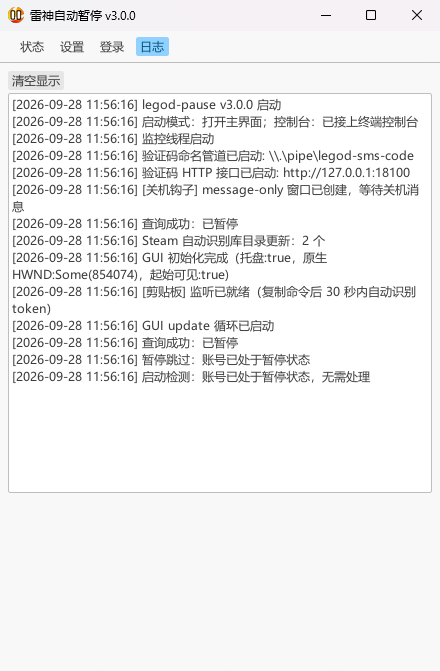
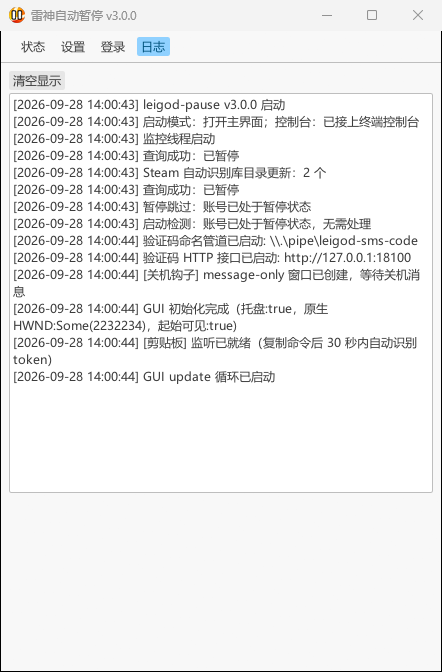
refactor: 项目统一更名为 leigod-*（对齐官方品牌拼写）
官方品牌是 leigod（雷神 = Lei + God）：官网 www.leigod.com、接口
webapi.leigod.com、安装目录 LeiGod_Acc；原先的 legod-* 是从上游 Python 项目
6yy66yy/legod-auto-pause 继承来的写法，少了一个 i。

- 包名/exe：legod-pause → leigod-pause（Cargo.toml，产物 leigod-pause.exe）
- 命名管道：\.\pipe\legod-sms-code → \.\pipe\leigod-sms-code
- 互斥体：legodpause → leigodpause
- 日志文件：legod_rs.log → leigod_rs.log
- 通知身份 AUMID：Legod.Pause → Leigod.Pause
- 自启入口：Run 键 LegodPause → LeigodPause，快捷方式 legod-pause.lnk → leigod-pause.lnk
- 剪贴板监听窗口类：LeigodPauseClipWnd
- 图标资源：assets/legod.ico → assets/leigod.ico（含 build.rs / tray.rs 引用）
- README / ARCHITECTURE / 脚本中的命令示例同步改名；上游项目名与它的
  legod.py 文件名保持原样（不能替别人改名）
- docs/screenshots/logs.png 重拍（原图里含旧包名与旧管道名）

diff --git a/src/main.rs b/src/main.rs
@@ -1,15 +1,15 @@
 //! 雷神加速器时长自动暂停 — Rust 版
 //!
 //! 用法：
-//!   legod-pause.exe               后台静默运行（托盘，不弹控制台也不弹界面）
-//!   legod-pause.exe --show        启动时打开主界面
-//!   legod-pause.exe --console     额外开一个控制台窗口看日志（调试用）
-//!   legod-pause.exe info          查询账号/暂停状态
-//!   legod-pause.exe pause         立即暂停计时
-//!   legod-pause.exe resume        恢复计时
-//!   legod-pause.exe sms           触发下发短信验证码
-//!   legod-pause.exe code <验证码> 用验证码更新 token
-//!   legod-pause.exe status        本机接口状态（等价 GET /status）
+//!   leigod-pause.exe               后台静默运行（托盘，不弹控制台也不弹界面）
+//!   leigod-pause.exe --show        启动时打开主界面
+//!   leigod-pause.exe --console     额外开一个控制台窗口看日志（调试用）
+//!   leigod-pause.exe info          查询账号/暂停状态
+//!   leigod-pause.exe pause         立即暂停计时
+//!   leigod-pause.exe resume        恢复计时
+//!   leigod-pause.exe sms           触发下发短信验证码
+//!   leigod-pause.exe code <验证码> 用验证码更新 token
+//!   leigod-pause.exe status        本机接口状态（等价 GET /status）
 //!
 //! 编译为 GUI 子系统（不产生控制台窗口）：从终端启动时自动接上父控制台，
 //! 双击/开机自启时没有控制台，输出走日志文件；要控制台窗口用 `--console`。
@@ -130,7 +130,7 @@ fn init_stdio() -> &'static str {
                 return "已接上终端控制台";
             }
             discard();
-            return "无控制台（输出丢弃，日志见 legod_rs.log）";
+            return "无控制台（输出丢弃，日志见 leigod_rs.log）";
         }
         // 管道 / 文件重定向：直接沿用父进程句柄，不能改写成 CONOUT$
         if GetFileType(handle.unwrap()) != FILE_TYPE_CHAR {
@@ -141,7 +141,7 @@ fn init_stdio() -> &'static str {
             return "已接上终端控制台";
         }
         discard();
-        "无控制台（输出丢弃，日志见 legod_rs.log）"
+        "无控制台（输出丢弃，日志见 leigod_rs.log）"
     }
 }
 
@@ -163,16 +163,16 @@ fn print_help() {
     println!(
         "雷神加速器时长自动暂停 v{v}\n\
          用法:\n\
-         \x20 legod-pause.exe               后台静默运行（托盘，不弹控制台也不弹界面）\n\
-         \x20 legod-pause.exe --show        启动时打开主界面\n\
-         \x20 legod-pause.exe --console     额外开一个控制台窗口看日志（调试用）\n\
-         \x20 legod-pause.exe info          查询账号/暂停状态\n\
-         \x20 legod-pause.exe pause         立即暂停计时\n\
-         \x20 legod-pause.exe resume        恢复计时\n\
-         \x20 legod-pause.exe sms           触发下发短信验证码\n\
-         \x20 legod-pause.exe code <n>      用验证码更新 token\n\
-         \x20 legod-pause.exe status        查询本机接口状态\n\
-         验证码自动接口: POST http://127.0.0.1:{{port}}/token/sms | /token/code  或  命名管道 \\\\.\\pipe\\legod-sms-code",
+         \x20 leigod-pause.exe               后台静默运行（托盘，不弹控制台也不弹界面）\n\
+         \x20 leigod-pause.exe --show        启动时打开主界面\n\
+         \x20 leigod-pause.exe --console     额外开一个控制台窗口看日志（调试用）\n\
+         \x20 leigod-pause.exe info          查询账号/暂停状态\n\
+         \x20 leigod-pause.exe pause         立即暂停计时\n\
+         \x20 leigod-pause.exe resume        恢复计时\n\
+         \x20 leigod-pause.exe sms           触发下发短信验证码\n\
+         \x20 leigod-pause.exe code <n>      用验证码更新 token\n\
+         \x20 leigod-pause.exe status        查询本机接口状态\n\
+         验证码自动接口: POST http://127.0.0.1:{{port}}/token/sms | /token/code  或  命名管道 \\\\.\\pipe\\leigod-sms-code",
         v = env!("CARGO_PKG_VERSION")
     );
 }
@@ -234,7 +234,7 @@ fn cli_sms(config_path: &std::path::Path) {
 
 fn cli_code(config_path: &std::path::Path, code: Option<&str>) {
     let Some(code) = code else {
-        eprintln!("用法: legod-pause.exe code <验证码>");
+        eprintln!("用法: leigod-pause.exe code <验证码>");
         std::process::exit(2);
     };
     let state = make_state(config_path);
@@ -318,7 +318,7 @@ fn run_gui(
         use windows::core::w;
         use windows::Win32::Foundation::{GetLastError, ERROR_ALREADY_EXISTS};
         use windows::Win32::System::Threading::CreateMutexW;
-        let _ = CreateMutexW(None, false, w!("legodpause"));
+        let _ = CreateMutexW(None, false, w!("leigodpause"));
         if GetLastError() == ERROR_ALREADY_EXISTS {
             if show_window && activate_existing_window() {
                 // 用户明确要界面：把已运行实例的主界面叫出来
@@ -342,7 +342,7 @@ fn run_gui(
     }
 
     let state = make_state(config_path);
-    log(&state, &format!("legod-pause v{} 启动", env!("CARGO_PKG_VERSION")));
+    log(&state, &format!("leigod-pause v{} 启动", env!("CARGO_PKG_VERSION")));
     log(
         &state,
         &format!(
@@ -407,7 +407,7 @@ fn run_gui(
     let state_gui = state.clone();
     let cfg_gui = cfg_shared.clone();
     eframe::run_native(
-        "legod-pause",
+        "leigod-pause",
         native_options,
         Box::new(move |cc| {
             Ok(Box::new(gui::App::new(
@@ -470,7 +470,7 @@ fn activate_existing_window() -> bool {
 /// 直接追加一行日志（此时还没建 AppState）
 fn append_log(config_path: &std::path::Path, msg: &str) {
     use std::io::Write;
-    let path = config_path.with_file_name("legod_rs.log");
+    let path = config_path.with_file_name("leigod_rs.log");
     if let Ok(mut f) = std::fs::OpenOptions::new().create(true).append(true).open(path) {
         let _ = writeln!(f, "[{}] {}", chrono::Local::now().format("%Y-%m-%d %H:%M:%S"), msg);
     }

diff --git a/src/config.rs b/src/config.rs
@@ -165,7 +165,7 @@ fn startup_lnk_path() -> PathBuf {
     let base = std::env::var("APPDATA").unwrap_or_default();
     PathBuf::from(base)
         .join(r"Microsoft\Windows\Start Menu\Programs\Startup")
-        .join("legod-pause.lnk")
+        .join("leigod-pause.lnk")
 }
 
 /// 自启入口使用的启动参数：后台静默，不弹控制台也不弹界面
@@ -186,7 +186,7 @@ fn read_run_key() -> Result<Option<String>, String> {
             KEY_QUERY_VALUE,
         )
         .map_err(|e| format!("{e}"))?;
-    match run.get_value::<String, _>("LegodPause") {
+    match run.get_value::<String, _>("LeigodPause") {
         Ok(v) => Ok(Some(v)),
         Err(ref e) if e.kind() == std::io::ErrorKind::NotFound => Ok(None),
         Err(e) => Err(format!("{e}")),
@@ -353,12 +353,12 @@ fn write_run_key(exe: &str) -> Result<(), String> {
         )
         .map_err(|e| format!("打开注册表失败: {e}"))?;
     // 已是目标值就跳过写入（规避安全软件对重复写入的拦截）
-    if let Ok(cur) = run.get_value::<String, _>("LegodPause") {
+    if let Ok(cur) = run.get_value::<String, _>("LeigodPause") {
         if cur == target {
             return Ok(());
         }
     }
-    run.set_value("LegodPause", &target)
+    run.set_value("LeigodPause", &target)
         .map_err(|e| format!("{e} (os error {:?})", e.raw_os_error().unwrap_or(0)))
 }
 
@@ -404,7 +404,7 @@ fn delete_run_key() -> Result<(), RunKeyResult> {
     let run = hkcu
         .open_subkey_with_flags(r"Software\Microsoft\Windows\CurrentVersion\Run", KEY_SET_VALUE)
         .map_err(|e| RunKeyResult::Denied(format!("{e}")))?;
-    match run.delete_value("LegodPause") {
+    match run.delete_value("LeigodPause") {
         Ok(()) => Ok(()),
         Err(ref e) if e.kind() == std::io::ErrorKind::NotFound => Err(RunKeyResult::NotFound),
         Err(e) => Err(RunKeyResult::Denied(format!("{e}"))),
@@ -420,6 +420,6 @@ pub fn is_autostart() -> bool {
     }
     let hkcu = RegKey::predef(HKEY_CURRENT_USER);
     hkcu.open_subkey(r"Software\Microsoft\Windows\CurrentVersion\Run")
-        .and_then(|k| k.get_value::<String, _>("LegodPause"))
+        .and_then(|k| k.get_value::<String, _>("LeigodPause"))
         .is_ok()
 }

diff --git a/src/code_api.rs b/src/code_api.rs
@@ -4,7 +4,7 @@
 //!      POST /token/code {"code":"867020"} → 用验证码换 token 并保存
 //!      GET  /status     → token/暂停/监控状态（含实时 info 查询）
 //!      GET  /health     → 存活探测
-//! 2) 命名管道 \\.\pipe\legod-sms-code：每行一条，"sms"=触发发码，纯数字=提交验证码
+//! 2) 命名管道 \\.\pipe\leigod-sms-code：每行一条，"sms"=触发发码，纯数字=提交验证码
 //!
 //! 短信转发 App / 脚本 / AutoHotkey 均可调用，实现 token 全自动续期。
 
@@ -16,7 +16,7 @@ use serde_json::json;
 use crate::actions;
 use crate::state::{log, AppState};
 
-pub const PIPE_NAME: &str = r"\\.\pipe\legod-sms-code";
+pub const PIPE_NAME: &str = r"\\.\pipe\leigod-sms-code";
 
 pub fn start_http(state: Arc<AppState>, port: u16) {
     std::thread::Builder::new()
@@ -141,7 +141,7 @@ unsafe fn pipe_loop(state: Arc<AppState>) {
     log(&state, &format!("验证码命名管道已启动: {PIPE_NAME}"));
     loop {
         let handle = CreateNamedPipeW(
-            windows::core::w!(r"\\.\pipe\legod-sms-code"),
+            windows::core::w!(r"\\.\pipe\leigod-sms-code"),
             PIPE_ACCESS_INBOUND | FILE_FLAG_FIRST_PIPE_INSTANCE,
             PIPE_TYPE_MESSAGE | PIPE_READMODE_MESSAGE | PIPE_WAIT,
             PIPE_UNLIMITED_INSTANCES,

diff --git a/src/shutdown.rs b/src/shutdown.rs
@@ -19,7 +19,7 @@ use crate::actions;
 use crate::state::{log, AppState};
 
 /// message-only 控制窗口的类名（其它实例按这个类名找窗口，见 main.rs 的 --show）
-pub const CONTROL_WINDOW_CLASS: windows::core::PCWSTR = w!("LegodPauseShutdownWnd");
+pub const CONTROL_WINDOW_CLASS: windows::core::PCWSTR = w!("LeigodPauseShutdownWnd");
 /// 第二个实例发这个消息，请已运行实例把主界面显示出来
 pub const WM_SHOW_MAIN_WINDOW: u32 = WM_APP + 1;
 
@@ -55,7 +55,7 @@ fn message_loop() {
         }
     };
     let hinst = HINSTANCE(hmod.0);
-    let class_name = w!("LegodPauseShutdownWnd");
+    let class_name = w!("LeigodPauseShutdownWnd");
 
     let wc = WNDCLASSW {
         lpfnWndProc: Some(wndproc),
@@ -75,7 +75,7 @@ fn message_loop() {
         CreateWindowExW(
             WINDOW_EX_STYLE(0),
             class_name,
-            w!("LegodPauseShutdown"),
+            w!("LeigodPauseShutdown"),
             WINDOW_STYLE(0),
             0,
             0,

diff --git a/src/state.rs b/src/state.rs
@@ -157,7 +157,7 @@ impl AppState {
     }
 }
 
-/// 追加一行日志：写入 exe 同目录 legod_rs.log + 内存缓冲
+/// 追加一行日志：写入 exe 同目录 leigod_rs.log + 内存缓冲
 pub fn log(state: &AppState, msg: &str) {
     let line = format!("[{}] {}", Local::now().format("%Y-%m-%d %H:%M:%S"), msg);
     // GUI 子系统下可能没有控制台，写 stdout 失败属正常，不能让它 panic
@@ -182,7 +182,7 @@ pub fn log(state: &AppState, msg: &str) {
 }
 
 fn log_path(state: &AppState) -> PathBuf {
-    state.config_path.with_file_name("legod_rs.log")
+    state.config_path.with_file_name("leigod_rs.log")
 }
 
 /// 持有配置的全局句柄（各线程共享读写）

diff --git a/src/clipboard.rs b/src/clipboard.rs
@@ -158,7 +158,7 @@ pub fn spawn_watcher(
                 return;
             };
             let hinst = HINSTANCE(hmod.0);
-            let class_name = w!("LegodPauseClipWnd");
+            let class_name = w!("LeigodPauseClipWnd");
             let wc = WNDCLASSW {
                 lpfnWndProc: Some(wndproc),
                 lpszClassName: class_name,
@@ -173,7 +173,7 @@ pub fn spawn_watcher(
                 CreateWindowExW(
                     WINDOW_EX_STYLE(0),
                     class_name,
-                    w!("LegodPauseClip"),
+                    w!("LeigodPauseClip"),
                     WINDOW_STYLE(0),
                     0,
                     0,

diff --git a/src/events.rs b/src/events.rs
@@ -13,7 +13,7 @@ use crate::state::{log, AppState};
 /// 通知 AUMID：优先用本程序自己的身份（需开始菜单快捷方式注册），失败回退 PowerShell
 const TOAST_AUMID_FALLBACK: &str =
     "{1AC14E77-02E7-4E5D-B744-2EB1AE5198B7}\\WindowsPowerShell\\v1.0\\powershell.exe";
-const TOAST_AUMID_OWN: &str = "Legod.Pause";
+const TOAST_AUMID_OWN: &str = "Leigod.Pause";
 
 /// 通知线程实际使用的 AUMID
 static TOAST_AUMID: std::sync::OnceLock<String> = std::sync::OnceLock::new();

diff --git a/build.rs b/build.rs
@@ -1,9 +1,9 @@
 fn main() {
     if std::env::var("CARGO_CFG_TARGET_OS").as_deref() == Ok("windows") {
         winresource::WindowsResource::new()
-            .set_icon("assets/legod.ico")
+            .set_icon("assets/leigod.ico")
             .set("FileDescription", "雷神加速器时长自动暂停")
-            .set("ProductName", "legod-pause")
+            .set("ProductName", "leigod-pause")
             .compile()
             .expect("嵌入图标失败");
     }

diff --git a/src/tray.rs b/src/tray.rs
@@ -7,7 +7,7 @@ use tray_icon::menu::{Menu, MenuId, MenuItem, PredefinedMenuItem};
 use tray_icon::{TrayIcon, TrayIconBuilder};
 
 pub fn embedded_icon_rgba() -> (Vec<u8>, u32, u32) {
-    const ICO: &[u8] = include_bytes!("../assets/legod.ico");
+    const ICO: &[u8] = include_bytes!("../assets/leigod.ico");
     let img = image::load_from_memory_with_format(ICO, image::ImageFormat::Ico)
         .expect("解码内置图标失败")
         .into_rgba8();

diff --git a/src/gui.rs b/src/gui.rs
@@ -567,7 +567,7 @@ impl App {
                 let lower = exe_str.to_lowercase();
                 // 排除系统目录、自身、无路径进程
                 if lower.starts_with(r"c:\windows\")
-                    || lower.ends_with("legod-pause.exe")
+                    || lower.ends_with("leigod-pause.exe")
                     || exe_str.is_empty()
                 {
                     continue;

diff --git a/src/api/sign.rs b/src/api/sign.rs
@@ -43,7 +43,7 @@ mod tests {
     use super::*;
     use serde_json::json;
 
-    /// 与 Python 版 legod_sign 同输入同输出（稳定性向量）
+    /// 与 Python 版 leigod_sign 同输入同输出（稳定性向量）
     #[test]
     fn sign_is_deterministic_and_sorted() {
         let b = json!({"username": "13500000000", "password": "abc", "country_code": 86});
